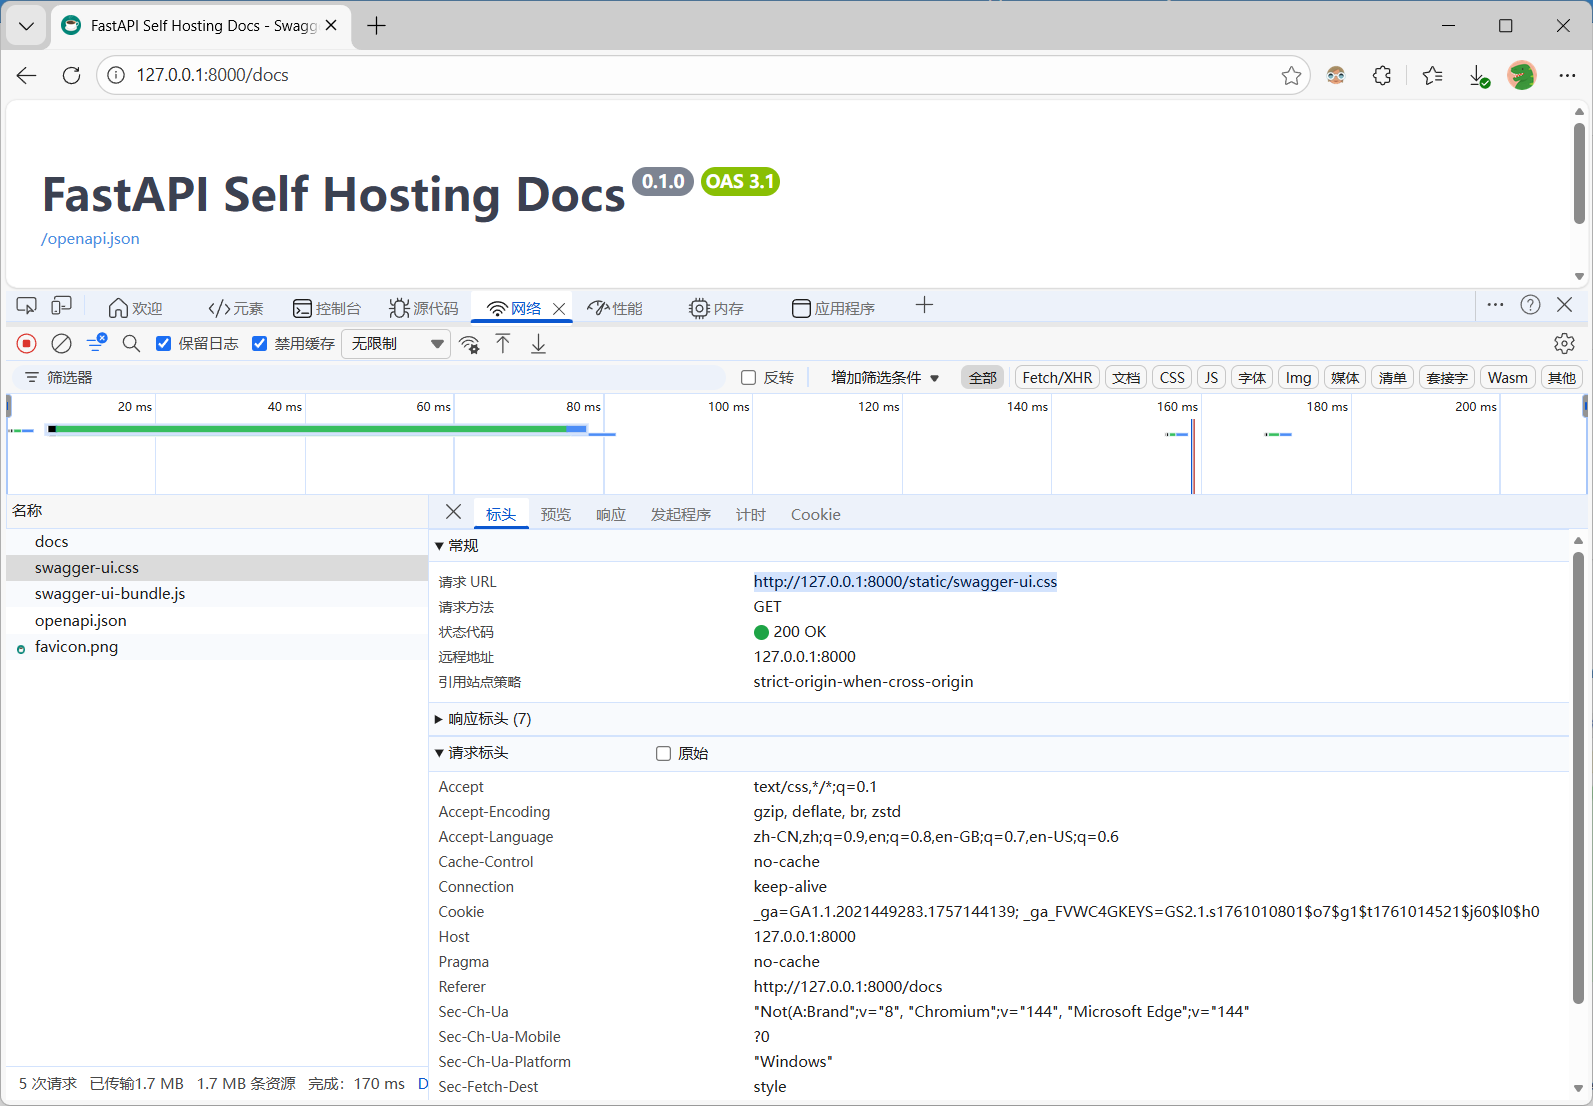
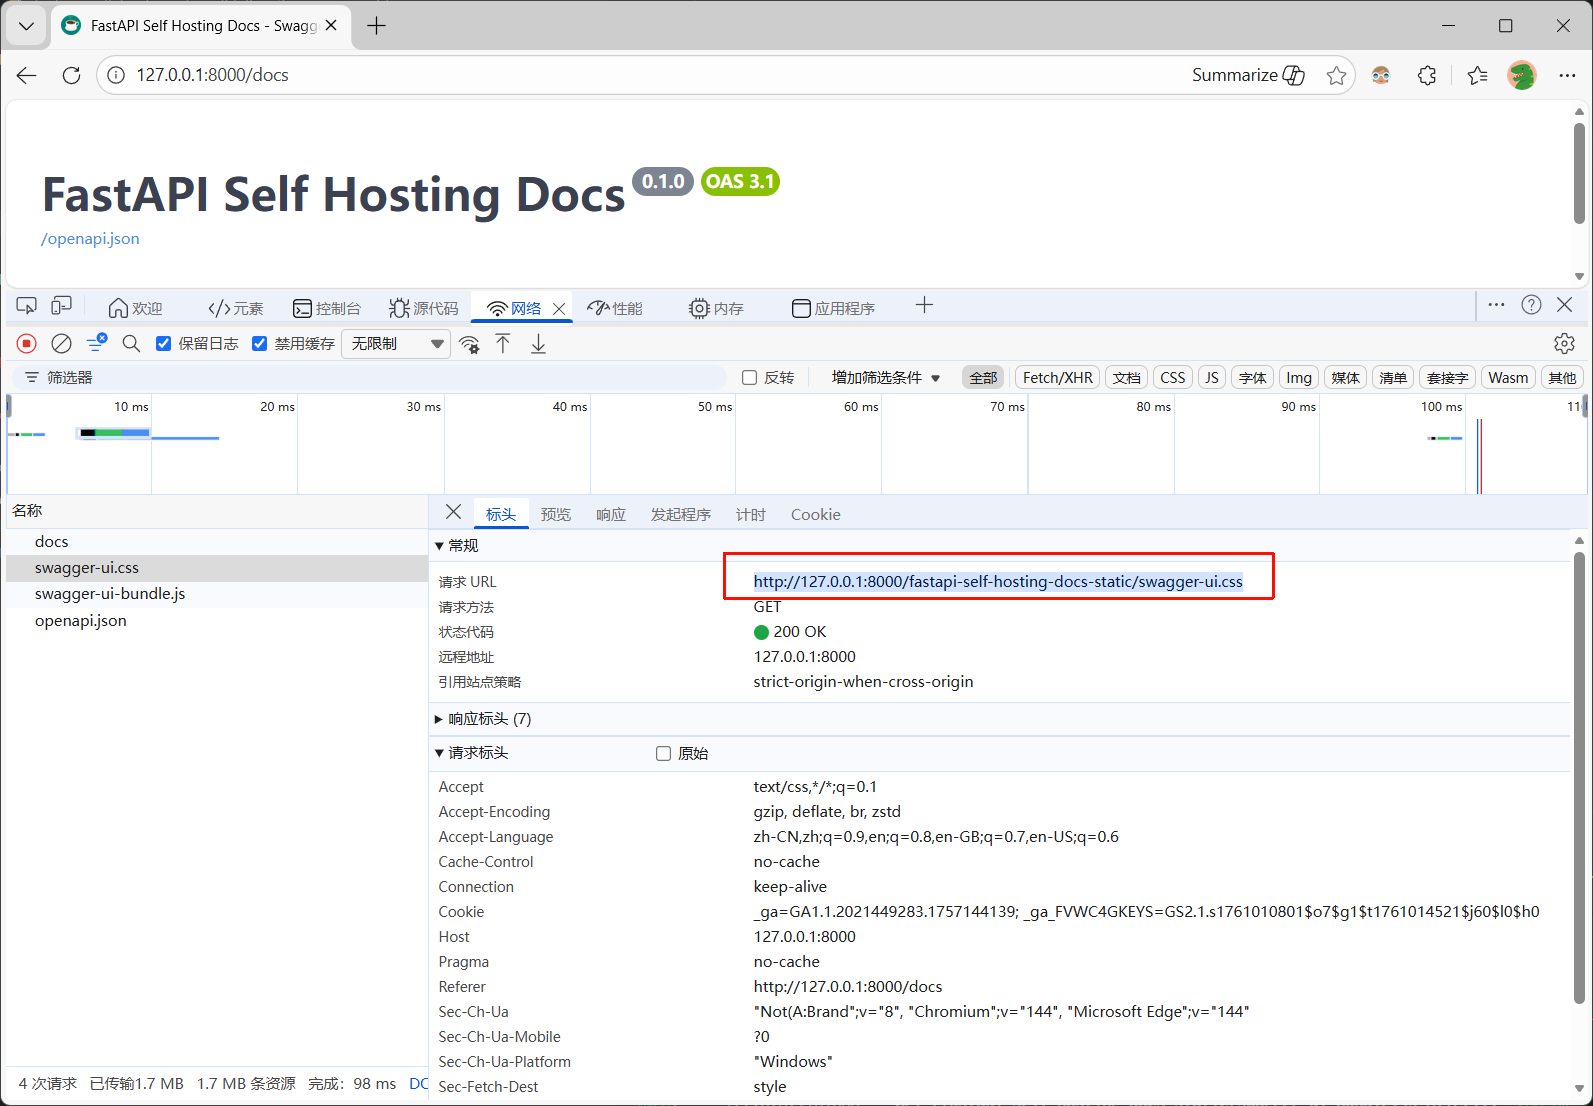
修复了一些已知问题

diff --git a/fastapi_self_hosting_docs/__init__.py b/fastapi_self_hosting_docs/__init__.py
@@ -10,19 +10,20 @@ from fastapi.staticfiles import StaticFiles
 
 
 def FastAPI(title="FastAPI Self Hosting Docs", **kwargs) -> _FastAPI:
-
+    del kwargs["docs_url"]
+    del kwargs["redoc_url"]
     app = _FastAPI(title=title, docs_url=None, redoc_url=None, **kwargs)
-
+    static_dir_name = "fastapi-self-hosting-docs-static"
     app.mount(
-        "/static",
+        f"/{static_dir_name}",
         StaticFiles(
             directory=os.path.join(
-                os.path.dirname(os.path.abspath(__file__)), "static"
+                os.path.dirname(os.path.abspath(__file__)), static_dir_name
             ),
             follow_symlink=True,
             check_dir=True,
         ),
-        name="static",
+        name=static_dir_name,
     )
 
     @app.get("/docs", include_in_schema=False)
@@ -31,9 +32,9 @@ def FastAPI(title="FastAPI Self Hosting Docs", **kwargs) -> _FastAPI:
             openapi_url=app.openapi_url,
             title=app.title + " - Swagger UI",
             oauth2_redirect_url=app.swagger_ui_oauth2_redirect_url,
-            swagger_js_url="/static/swagger-ui-bundle.js",
-            swagger_css_url="/static/swagger-ui.css",
-            swagger_favicon_url="/static/favicon.png",
+            swagger_js_url=f"/{static_dir_name}/swagger-ui-bundle.js",
+            swagger_css_url=f"/{static_dir_name}/swagger-ui.css",
+            swagger_favicon_url=f"/{static_dir_name}/favicon.png",
         )
 
     @app.get(app.swagger_ui_oauth2_redirect_url, include_in_schema=False)
@@ -45,8 +46,8 @@ def FastAPI(title="FastAPI Self Hosting Docs", **kwargs) -> _FastAPI:
         return get_redoc_html(
             openapi_url=app.openapi_url,
             title=app.title + " - ReDoc",
-            redoc_js_url="/static/redoc.standalone.js",
-            redoc_favicon_url="/static/favicon.png",
+            redoc_js_url=f"/{static_dir_name}/redoc.standalone.js",
+            redoc_favicon_url=f"/{static_dir_name}/favicon.png",
         )
 
     return app

diff --git a/fastapi_self_hosting_docs/__version__.py b/fastapi_self_hosting_docs/__version__.py
@@ -1,1 +1,1 @@
-__version__ = "0.5.0"
+__version__ = "0.7.0"
